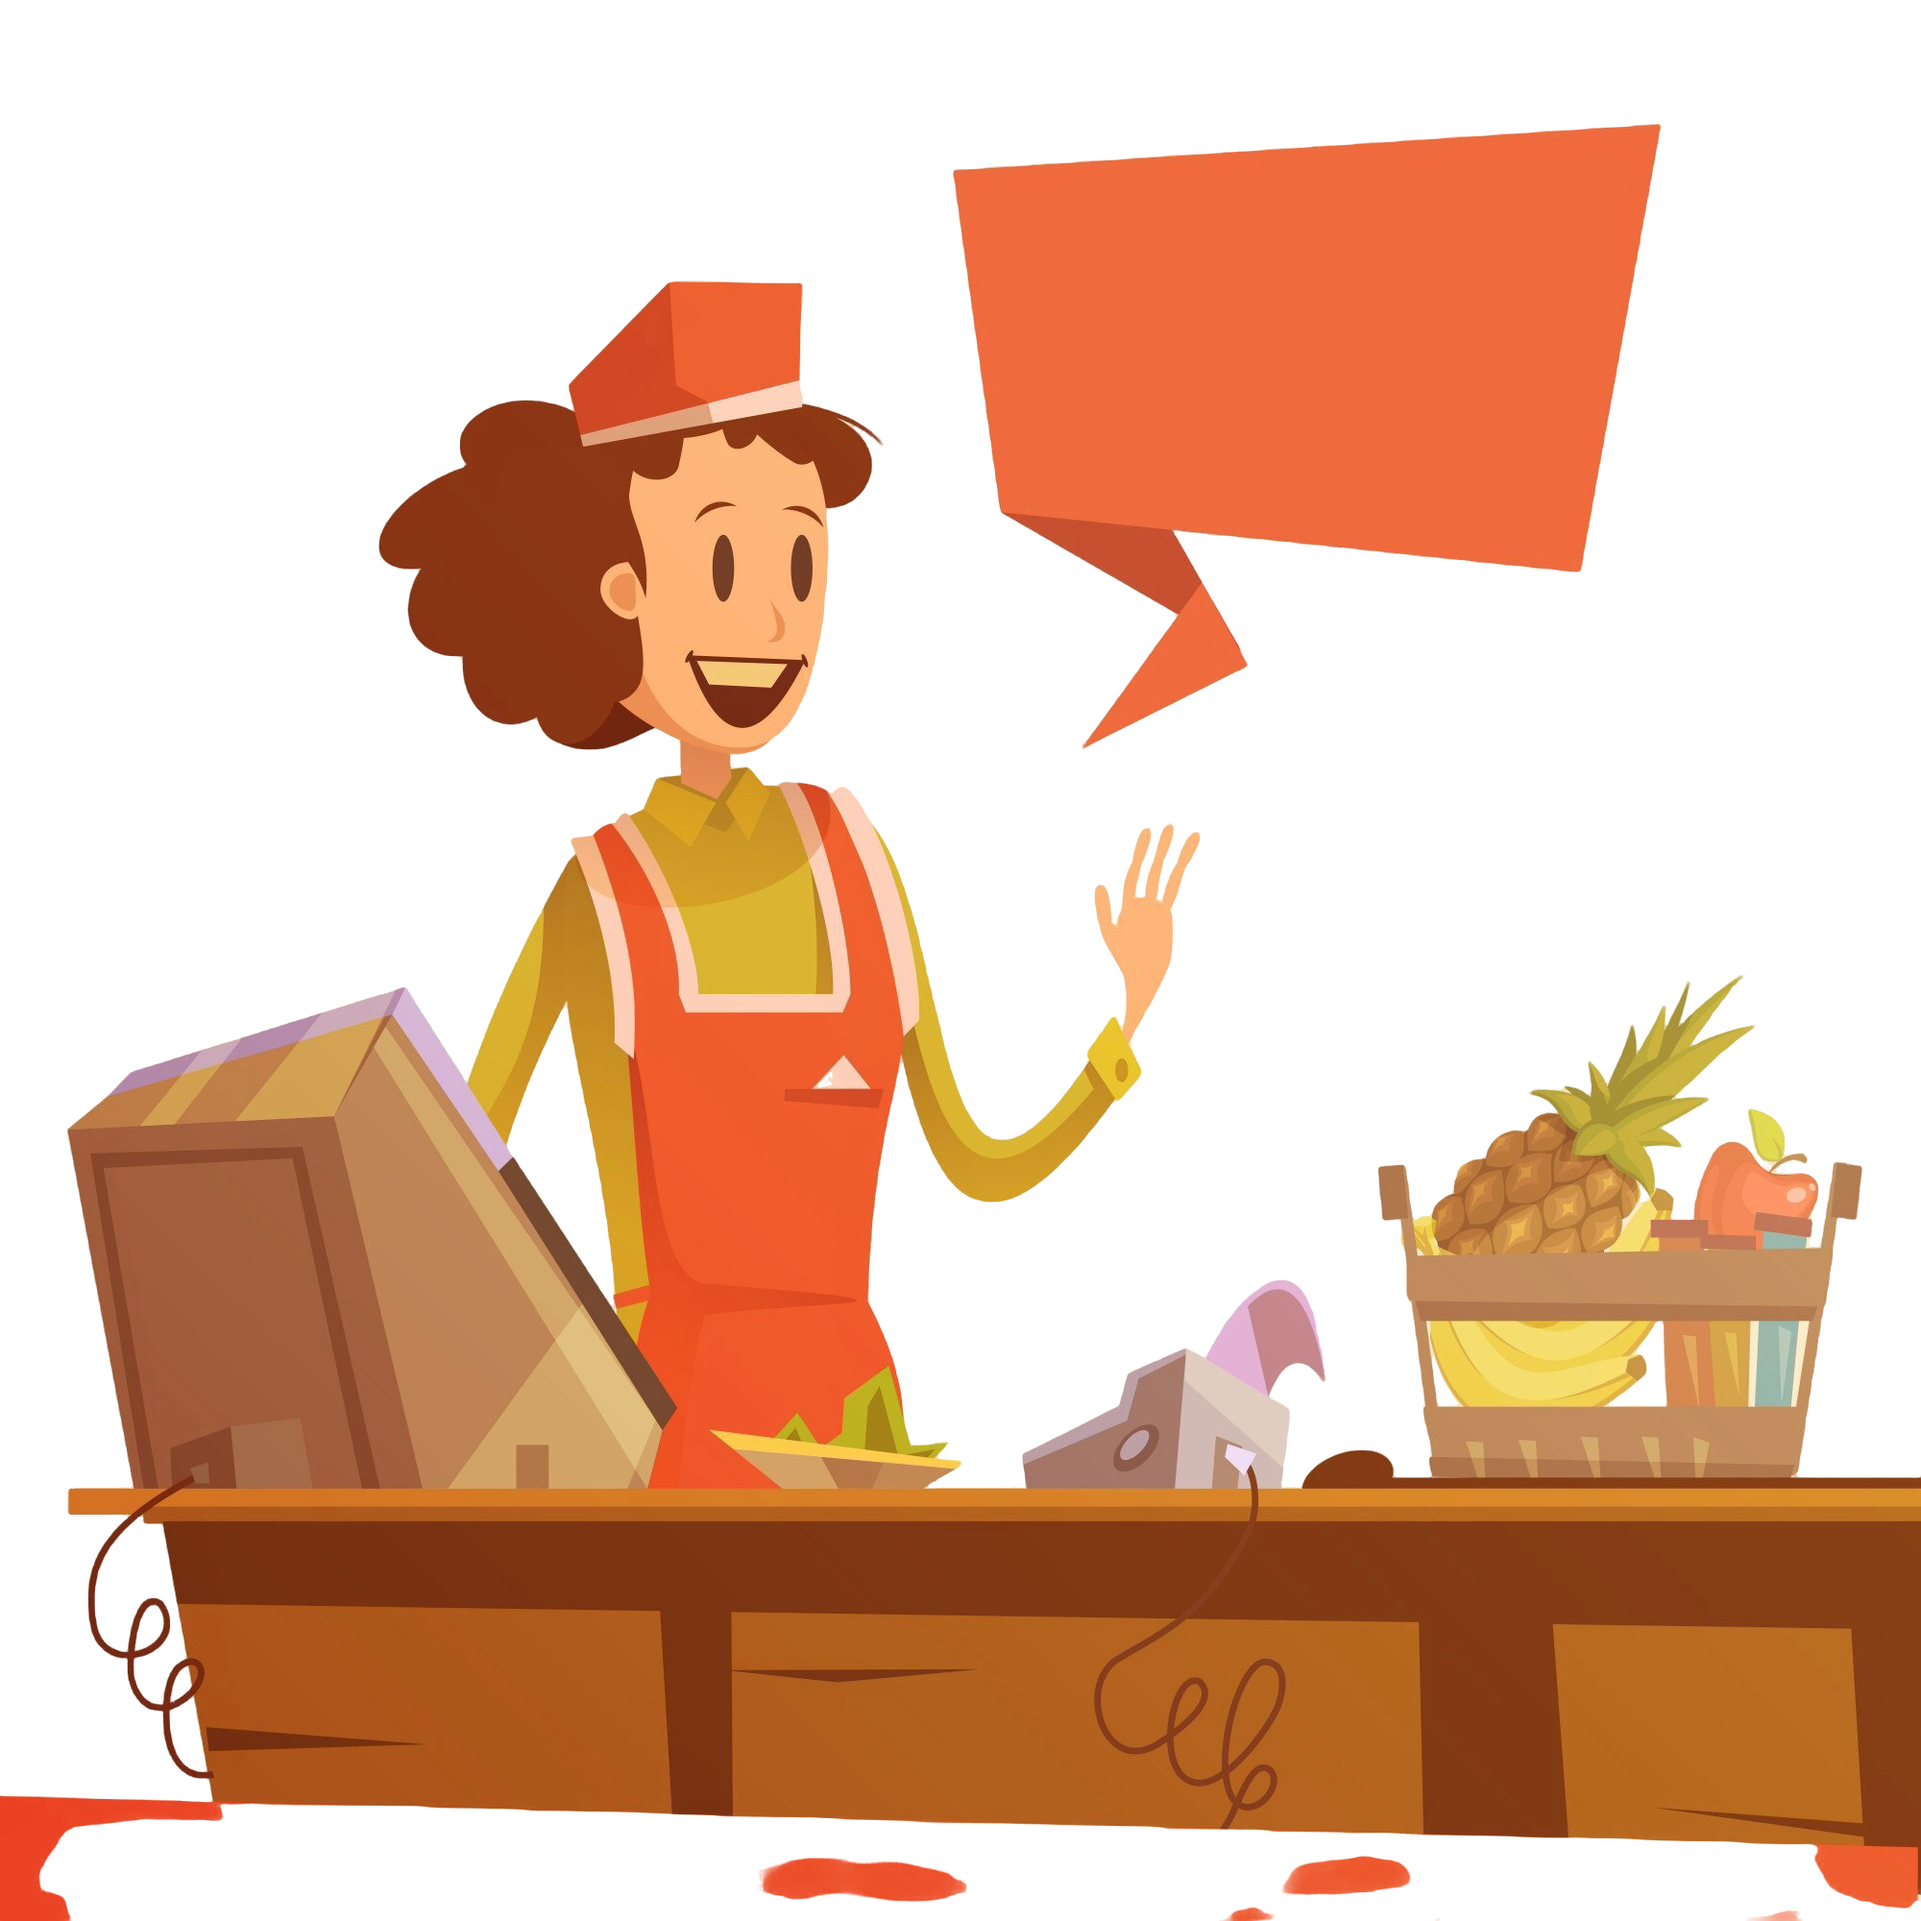
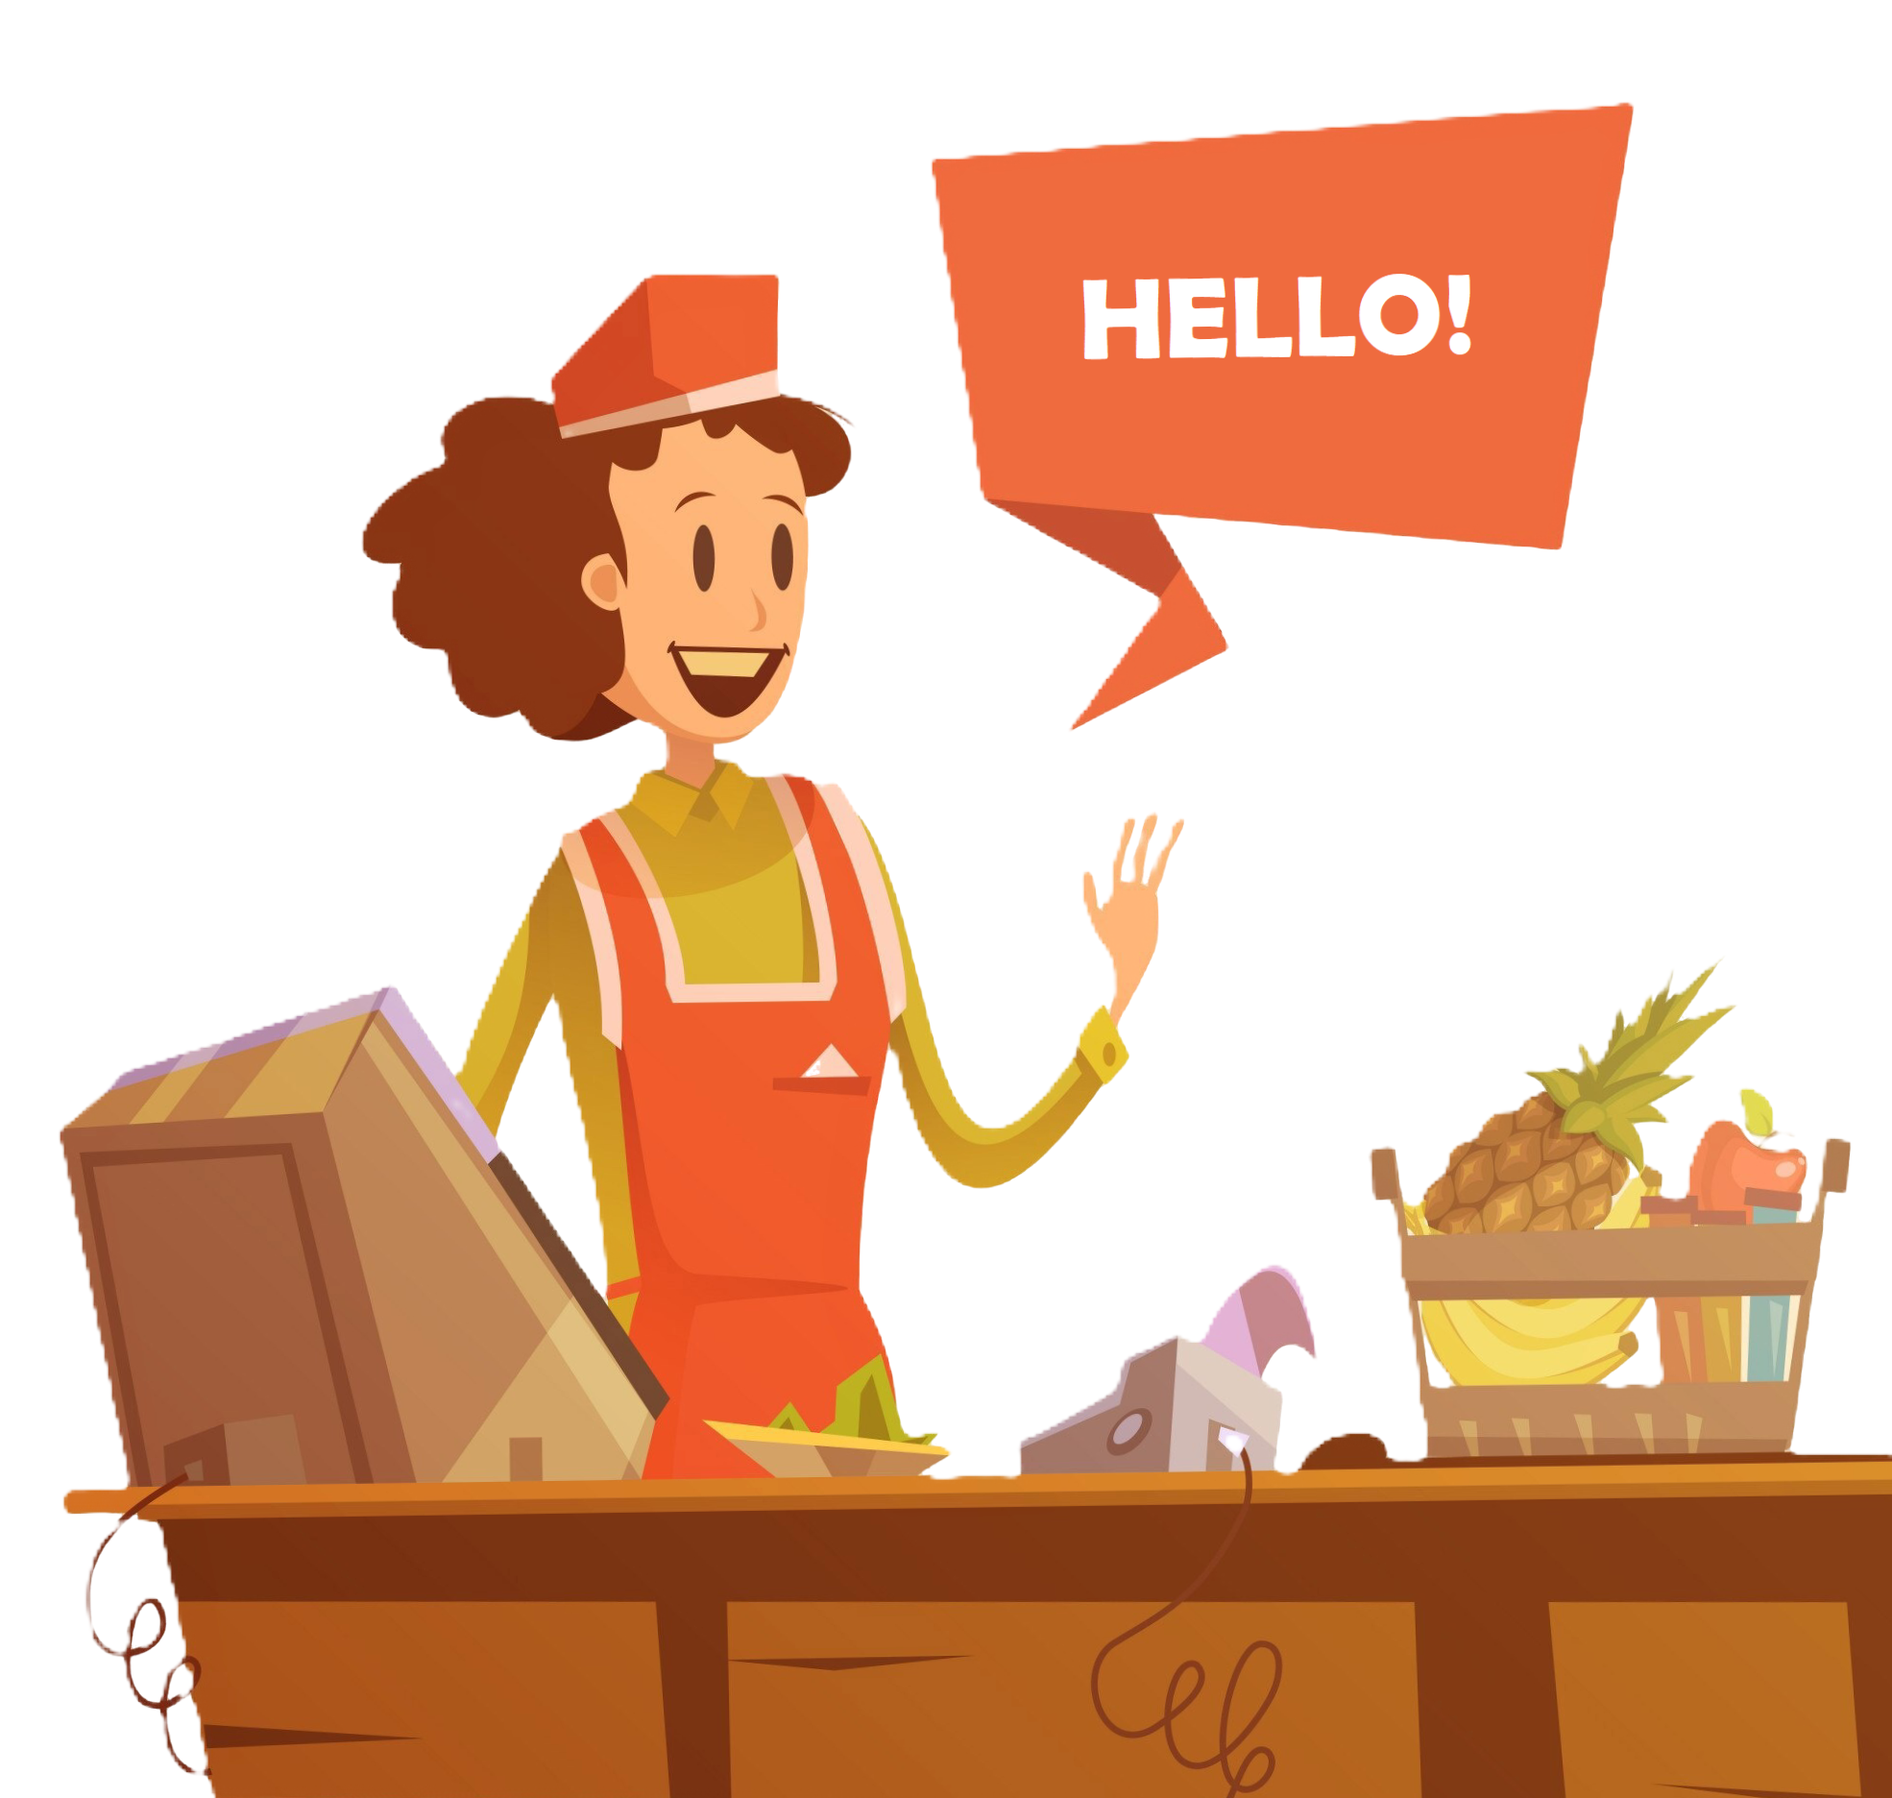
Contactus

diff --git a/templates/contact.html b/templates/contact.html
@@ -60,10 +60,17 @@
     .contact-footer a:hover {
         text-decoration: underline;
     }
+
+    /* Image styling */
+    .contact-image {
+        max-width: 100%; /* Ensures the image doesn't exceed its container */
+        margin-bottom: 20px; /* Adds some space below the image */
+    }
 </style>
 
 <div class="contact-container">
     <h2 class="contact-header">Contact Us</h2>
+    <img src="{{ url_for('static', filename='Contactus.png') }}" alt="Contact Us Image" class="contact-image">
     <div class="contact-info">
         <div class="contact-item">
             <i class="fas fa-envelope contact-icon"></i>
@@ -71,7 +78,7 @@
         </div>
         <div class="contact-item">
             <i class="fas fa-phone-alt contact-icon"></i>
-            <span>Phone: <a href="tel:+918142515278">+91 81425 15278</a></span>
+            <span>Phone: <a href="tel:+918142515278">+91-8142515278</a></span>
         </div>
     </div>
     <div class="contact-footer">
